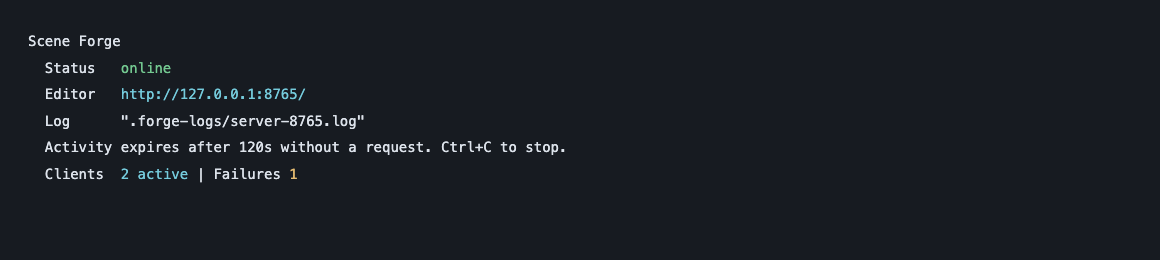
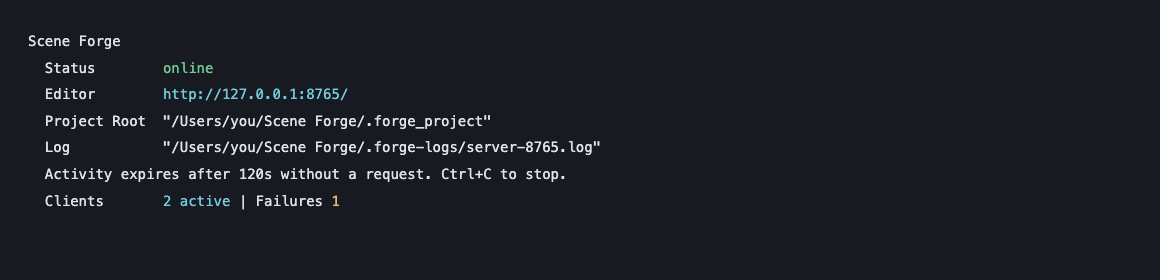
Show the project root below the editor URL

Changed region(s): [[0.031, 0.3077, 0.5276, 0.7385], [0.031, 0.2154, 0.1862, 0.2769], [0.0, 0.1231, 0.1241, 0.1846]]

diff --git a/src/gbc_scene_forge/console.py b/src/gbc_scene_forge/console.py
@@ -44,7 +44,7 @@ class ServerConsole:
         if self.live_total:
             self.stream.write("\r\033[2K")
         print(
-            "  Clients  "
+            f"  {'Clients':<14}"
             + self.highlight(f"{len(self.clients)} active", "36")
             + " | Failures "
             + self.highlight(str(self.failures), "33" if self.failures else "36"),
@@ -53,13 +53,15 @@ class ServerConsole:
             flush=True,
         )
 
-    def start(self, port):
+    def start(self, port, *, project_root=None):
         with self.lock:
             self.write("Scene Forge")
-            self.write("  Status   " + self.highlight("online", "32"))
-            self.write("  Editor   " + self.highlight(f"http://127.0.0.1:{port}/", "36"))
+            self.write(f"  {'Status':<14}" + self.highlight("online", "32"))
+            self.write(f"  {'Editor':<14}" + self.highlight(f"http://127.0.0.1:{port}/", "36"))
+            if project_root is not None:
+                self.write(f"  {'Project Root':<14}" + json.dumps(str(project_root)))
             if self.log_path is not None:
-                self.write("  Log      " + json.dumps(str(self.log_path)))
+                self.write(f"  {'Log':<14}" + json.dumps(str(self.log_path)))
             self.write(
                 f"  Activity expires after {self.timeout}s without a request. Ctrl+C to stop."
             )

diff --git a/tests/test_console.py b/tests/test_console.py
@@ -51,6 +51,10 @@ class ConsoleTests(unittest.TestCase):
             self.assertIn("Protocol error", log)
             self.assertRegex(log, r"\d{4}-\d{2}-\d{2} .* INFO HTTP 200")
             self.assertIn(str(path), stream.getvalue())
+            lines = stream.getvalue().splitlines()
+            editor_line = next(index for index, line in enumerate(lines) if "Editor" in line)
+            self.assertIn("Project Root", lines[editor_line + 1])
+            self.assertIn(str(Path(folder) / "projects"), lines[editor_line + 1])
             self.assertIn("Failures 2", stream.getvalue())
             self.assertNotIn("GET /", stream.getvalue())
             self.assertNotIn("New client", stream.getvalue())

diff --git a/src/gbc_scene_forge/standalone.py b/src/gbc_scene_forge/standalone.py
@@ -318,7 +318,7 @@ def serve(root, port=8765, *, single_project=False):
         logger.addHandler(log)
         server.console = ServerConsole(logger=logger, log_path=log_path)
         try:
-            server.console.start(server.server_port)
+            server.console.start(server.server_port, project_root=Path(root).absolute())
             server.serve_forever()
         except KeyboardInterrupt:
             pass

diff --git a/README.md b/README.md
@@ -23,7 +23,8 @@ Open **http://127.0.0.1:8765/** in your browser. The terminal prints the address
 you can stop the server with **Ctrl+C**. The installed editor needs no Node or
 additional Python runtime dependencies.
 
-The console shows server status, the editor URL, the log location and a live
+The console shows server status, the editor URL, the absolute Project Root path,
+the log location and a live
 Clients / Failures field. Request and client activity goes to
 `.forge-logs/server-PORT.log` under the directory where you launch Forge, keeping the terminal
 compact. Logs include timestamps, all HTTP requests, failures, and client arrivals
